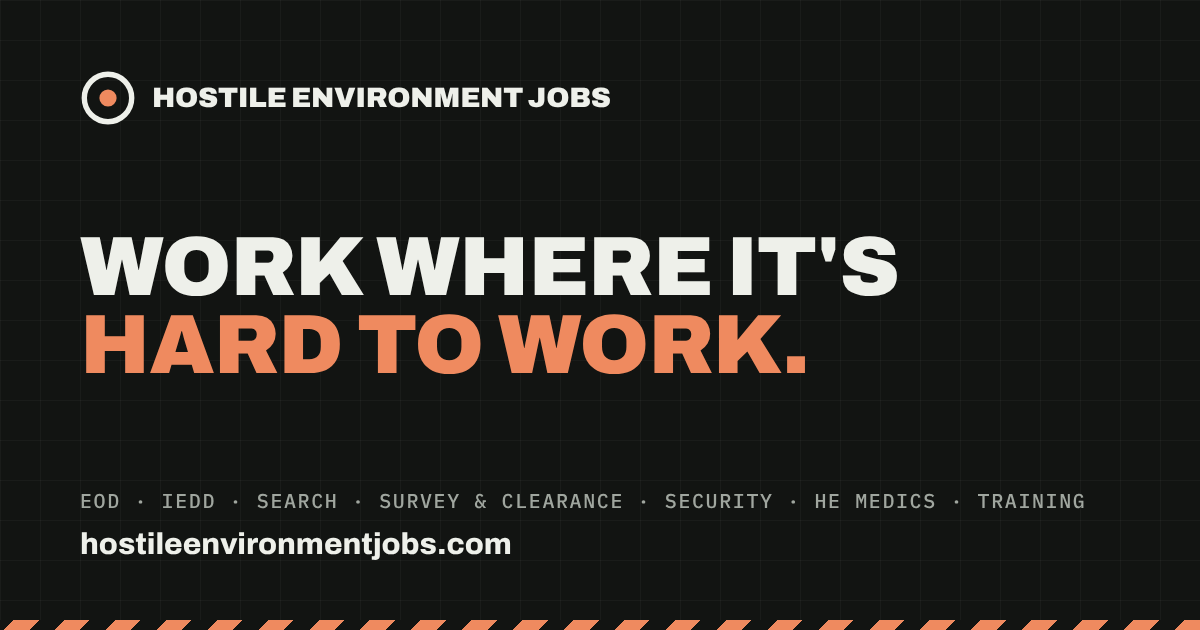
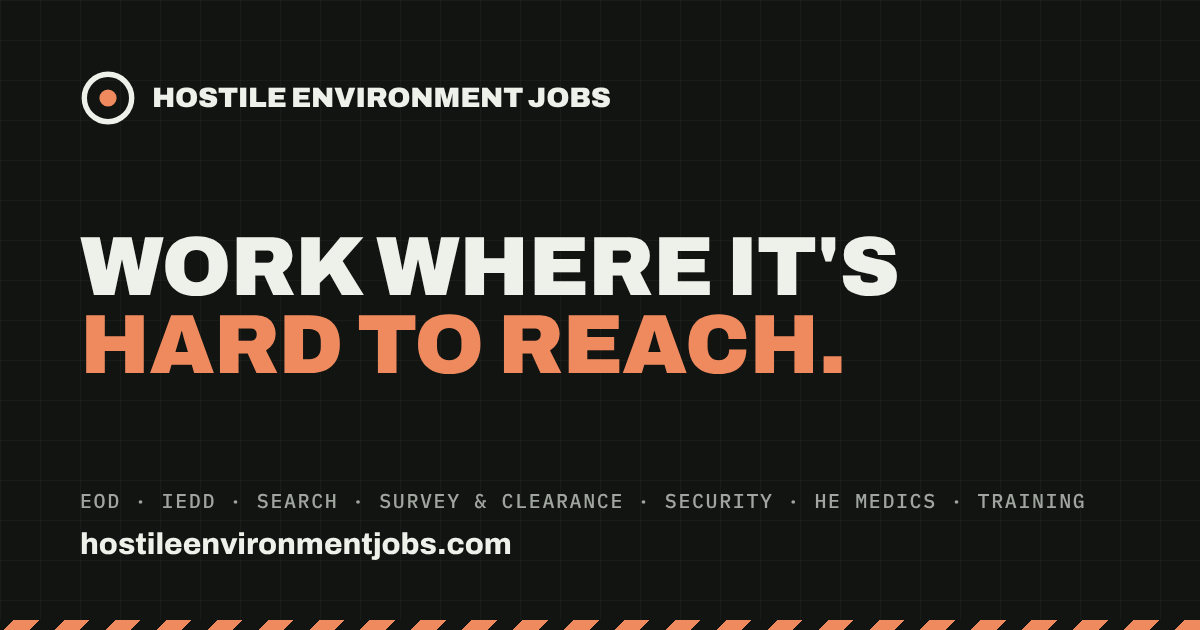
Update link-preview image to match the site headline
Claude-Session: https://claude.ai/code/session_016tfU6F1VkoEhvak6RdDp5S

Changed region(s): [[0.4008, 0.4825, 0.7092, 0.6032]]

diff --git a/index.html b/index.html
@@ -13,7 +13,7 @@
 <meta property="og:image" content="https://hostileenvironmentjobs.com/og-image.png">
 <meta property="og:image:width" content="1200">
 <meta property="og:image:height" content="630">
-<meta property="og:image:alt" content="Hostile Environment Jobs: work where it's hard to work">
+<meta property="og:image:alt" content="Hostile Environment Jobs: work where it's hard to reach">
 <meta name="twitter:image" content="https://hostileenvironmentjobs.com/og-image.png">
 <meta name="robots" content="index, follow">
 <meta property="og:url" content="https://hostileenvironmentjobs.com/">
